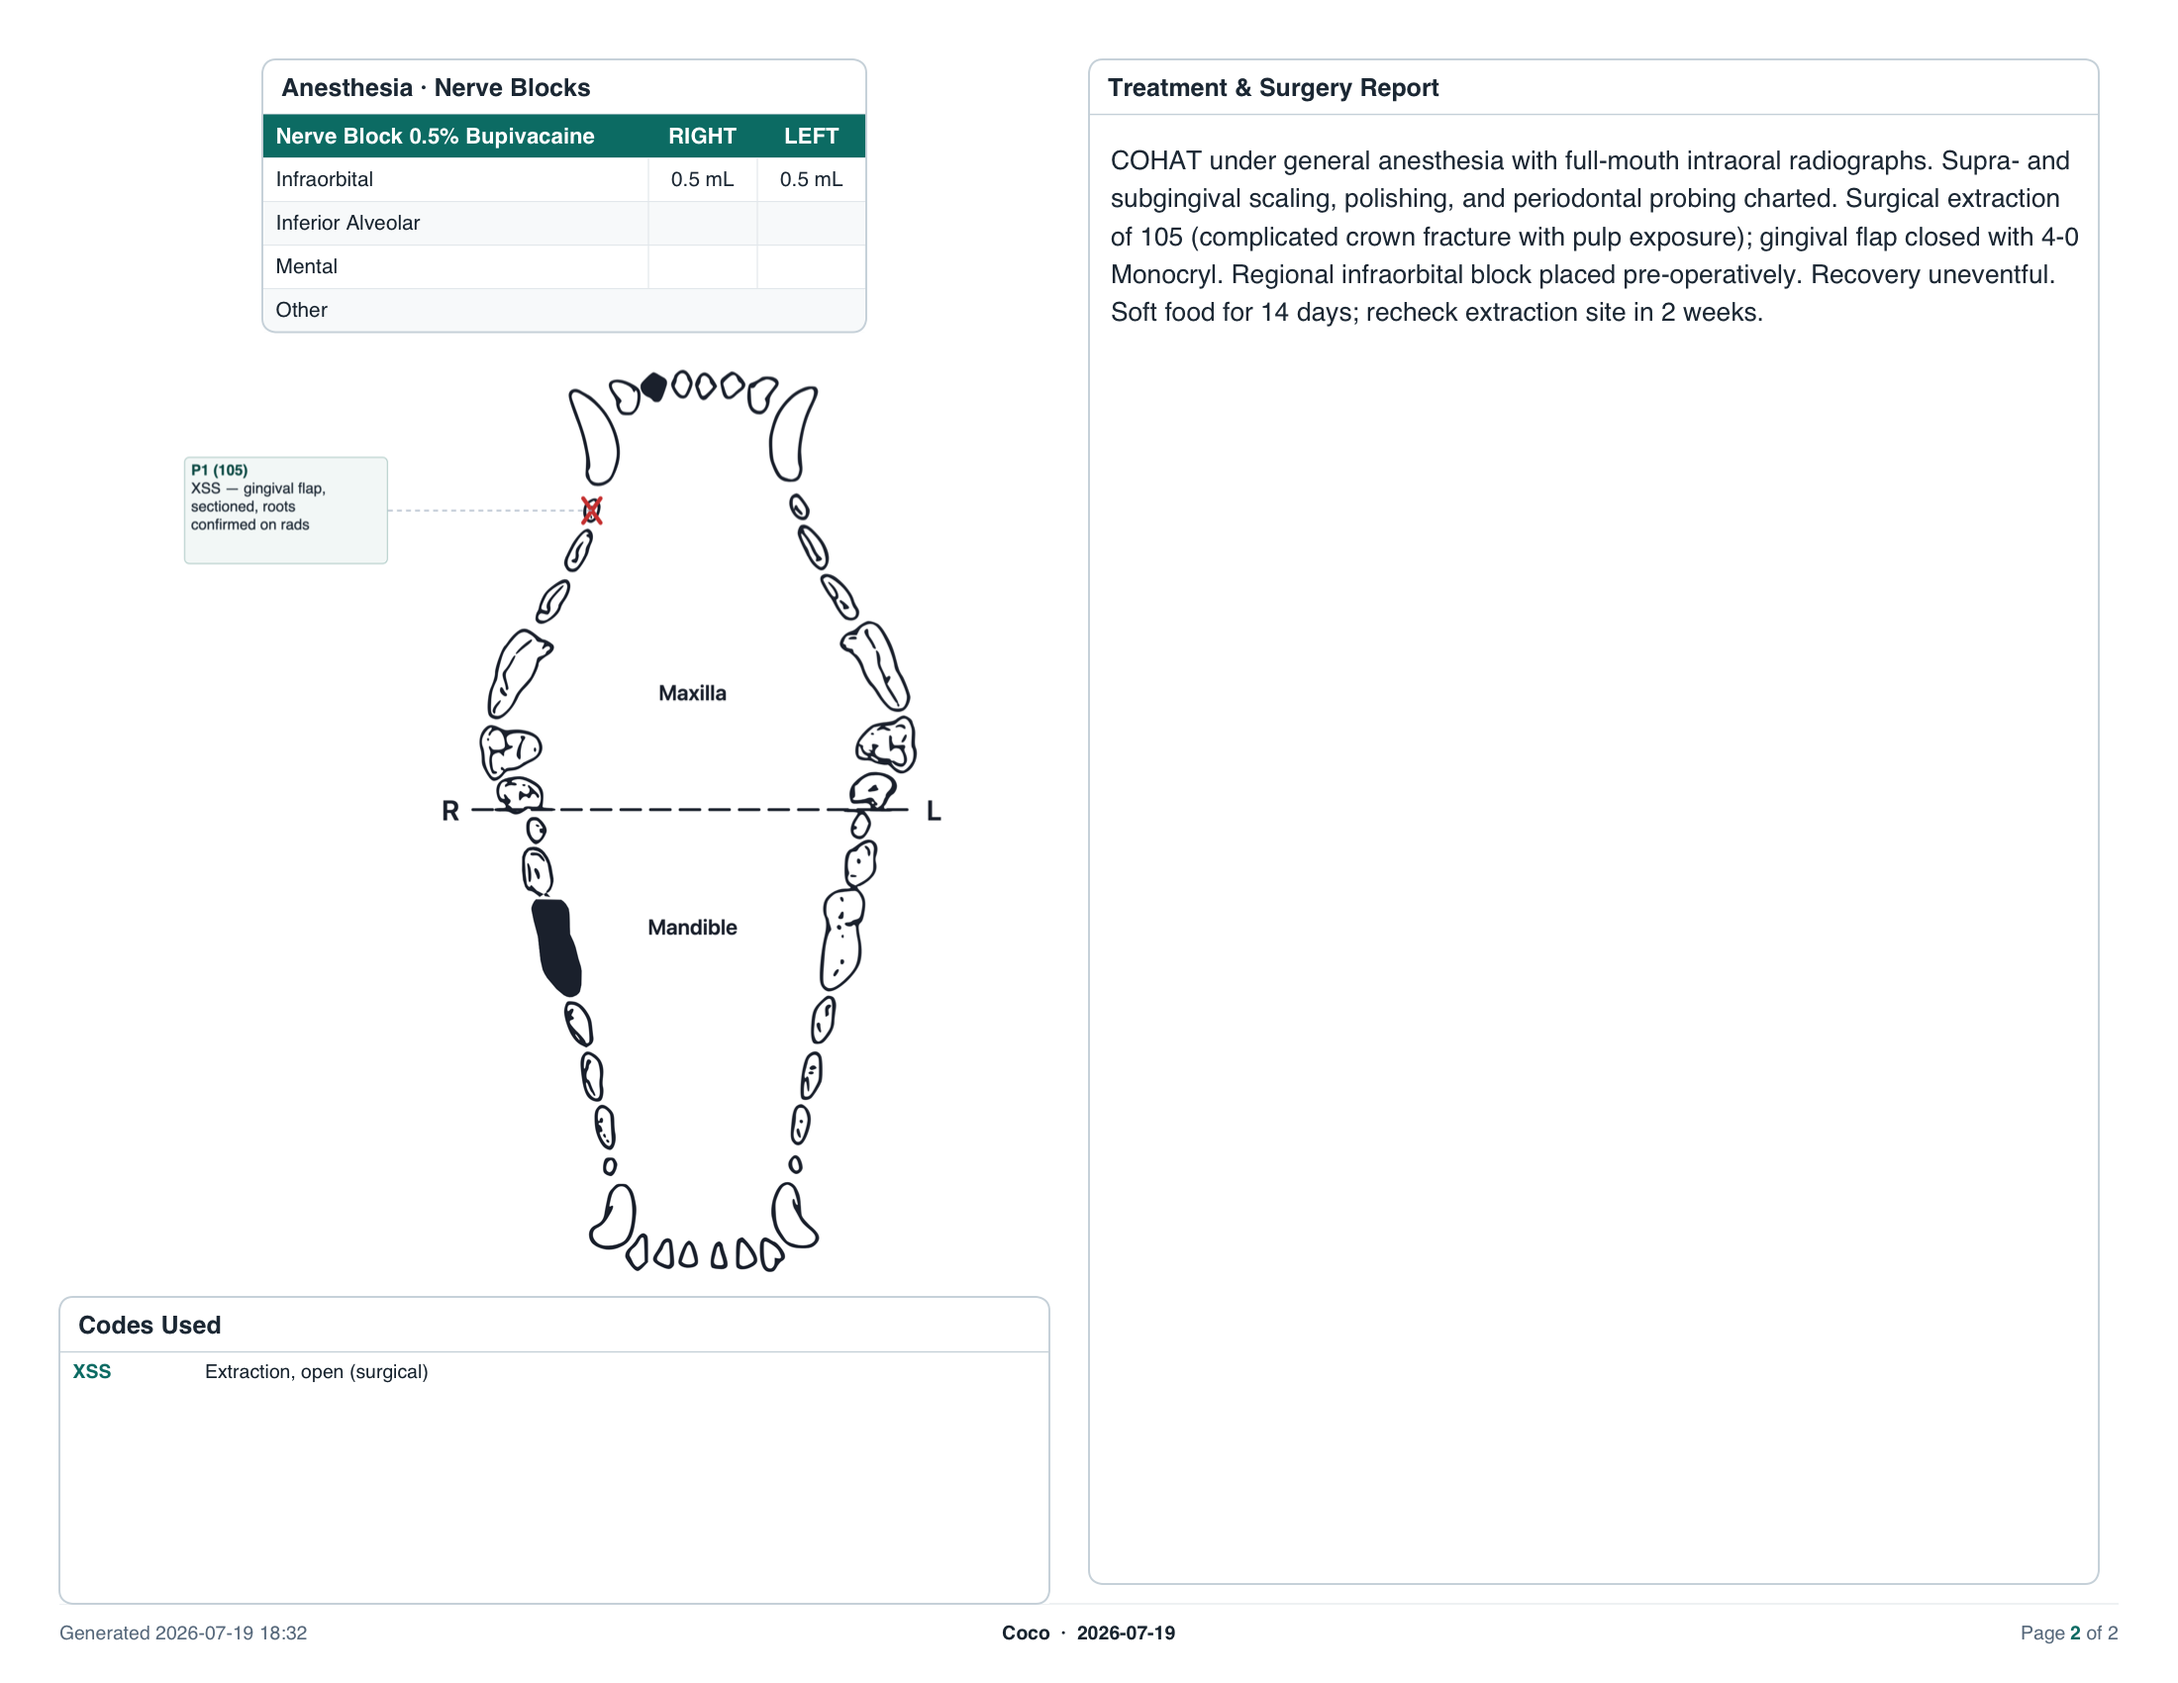
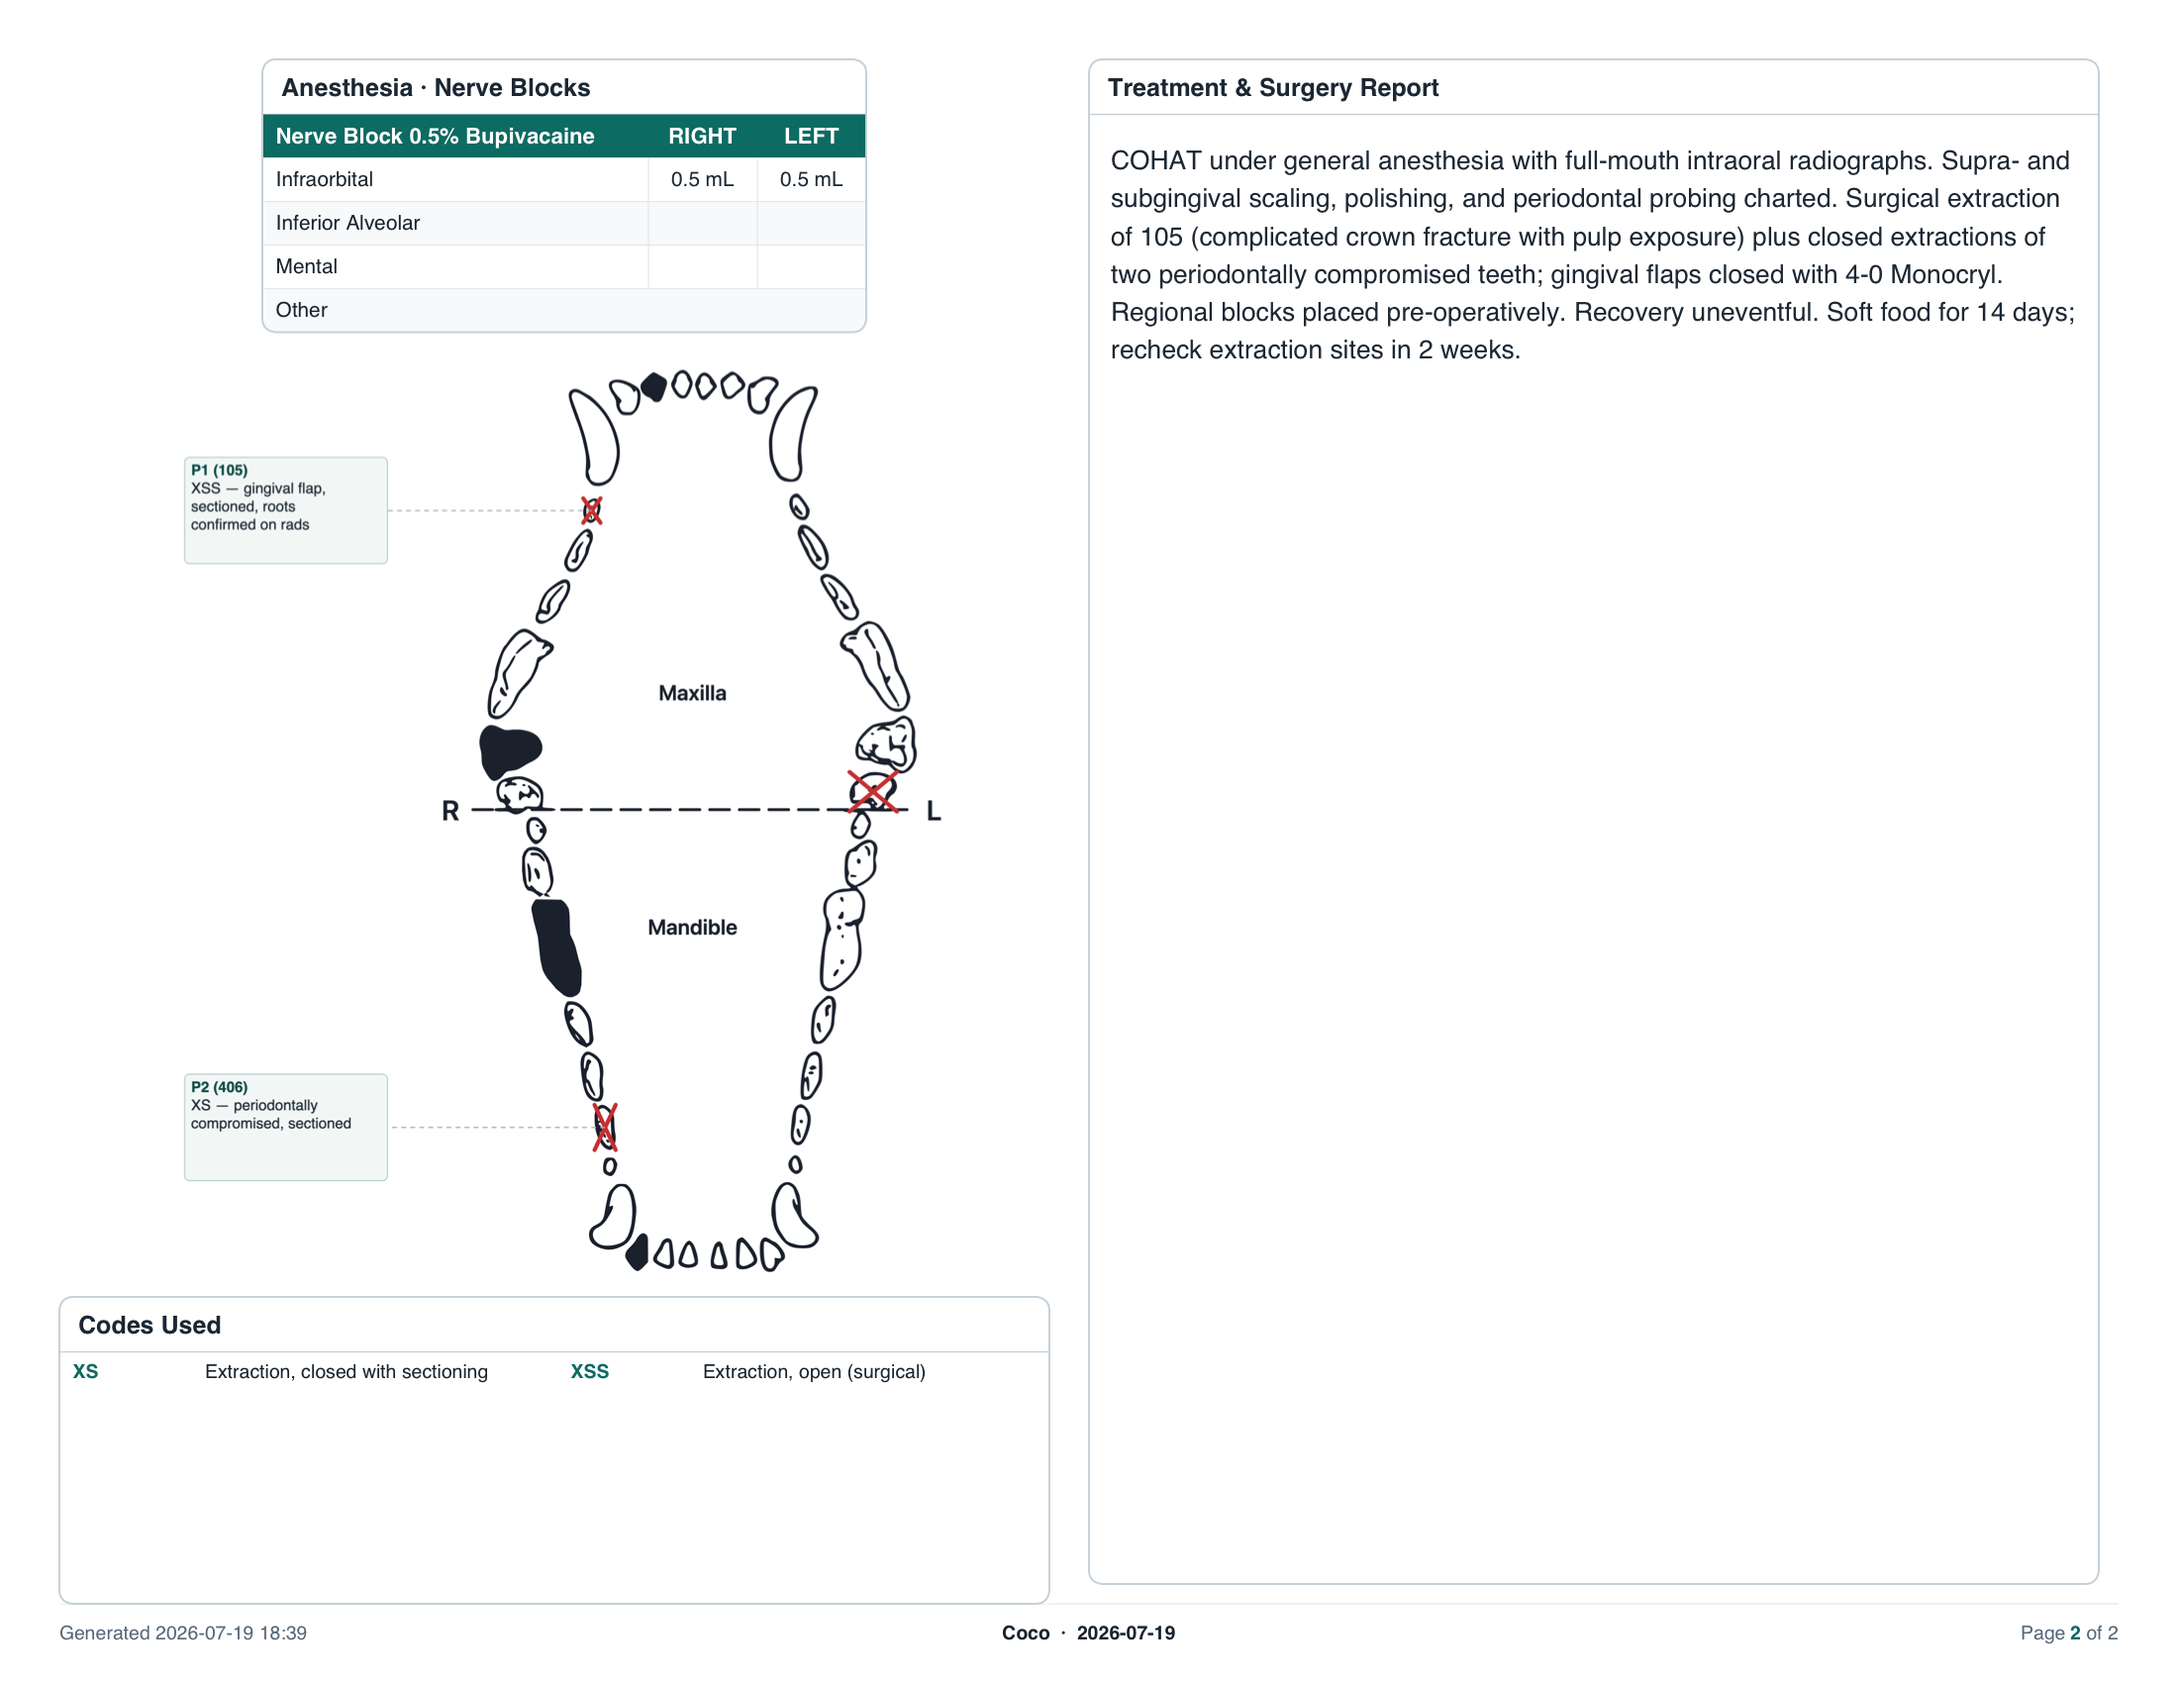
Landing paper section: page 2 under the copy, click-to-zoom lightbox, busier sample case
- Page 2 of the sample chart moves into the copy column below the text,
  filling the dead space the stacked layout left; columns top-align so
  the two sheets run together with opposing tilts.
- Both chart pages are buttons that open a full-size lightbox (zoom-in
  cursor, Escape/overlay/× to close, focus moved in, reduced-motion).
- Sample case regenerated busier: four carried-over missing teeth and
  three extractions (XSS on 105, XS on 406 with anchored comments),
  both extraction codes in page 2's legend, report updated to match.

diff --git a/src/components/Landing.tsx b/src/components/Landing.tsx
@@ -46,6 +46,18 @@ export const Landing: React.FC<LandingProps> = ({
   // on-page pause (prefers-reduced-motion alone only covers users who
   // set the OS switch).
   const [demoPaused, setDemoPaused] = React.useState(false);
+  // Full-size lightbox for the sample chart pages.
+  const [zoomedChart, setZoomedChart] = React.useState<{ src: string; alt: string } | null>(null);
+  const lightboxCloseRef = React.useRef<HTMLButtonElement>(null);
+  React.useEffect(() => {
+    if (!zoomedChart) return;
+    lightboxCloseRef.current?.focus();
+    const onKey = (e: KeyboardEvent) => {
+      if (e.key === 'Escape') setZoomedChart(null);
+    };
+    window.addEventListener('keydown', onKey);
+    return () => window.removeEventListener('keydown', onKey);
+  }, [zoomedChart]);
   const inApp = !!onOpenApp;
 
   const openSignup = (plan?: PlanKey) => {
@@ -333,18 +345,45 @@ export const Landing: React.FC<LandingProps> = ({
               <li>Patient identity on every page</li>
               <li>Re-open any PDF back into the app — the chart travels inside it</li>
             </ul>
+            {/* Page 2 sits under the copy so the section's two columns
+                fill evenly — page 1 alone runs taller than the text. */}
+            <button
+              type="button"
+              className="landing__paper-zoom"
+              onClick={() =>
+                setZoomedChart({
+                  src: '/landing-chart-p2.png',
+                  alt: 'Page two of the sample chart, full size',
+                })
+              }
+              aria-label="View page two of the sample chart full size"
+            >
+              <img
+                className="landing__paper-p2"
+                src="/landing-chart-p2.png"
+                alt="Page two of the same chart: nerve block doses, the procedure diagram with extractions marked, the treatment and surgery report, and the procedure codes used"
+                loading="lazy"
+              />
+            </button>
           </div>
-          <div className="landing__paper-shot landing__paper-shot--pages">
-            <img
-              src="/landing-chart.png"
-              alt="Page one of a generated dental chart PDF: practice logo and doctor line, diagnosis diagram with anchored comments, oral exam findings with comments, partial Triadan probing grids, and a legend of the AVDC codes used"
-              loading="lazy"
-            />
-            <img
-              src="/landing-chart-p2.png"
-              alt="Page two of the same chart: nerve block doses, the procedure diagram with an extraction marked, the treatment and surgery report, and the procedure codes used"
-              loading="lazy"
-            />
+          <div className="landing__paper-shot">
+            <button
+              type="button"
+              className="landing__paper-zoom"
+              onClick={() =>
+                setZoomedChart({
+                  src: '/landing-chart.png',
+                  alt: 'Page one of the sample chart, full size',
+                })
+              }
+              aria-label="View page one of the sample chart full size"
+            >
+              <img
+                src="/landing-chart.png"
+                alt="Page one of a generated dental chart PDF: practice logo and doctor line, diagnosis diagram with anchored comments, oral exam findings with comments, partial Triadan probing grids, and a legend of the AVDC codes used"
+                loading="lazy"
+              />
+            </button>
           </div>
         </section>
 
@@ -391,6 +430,27 @@ export const Landing: React.FC<LandingProps> = ({
             </button>
             <Login onAuthenticate={onAuthenticate} initialMode={auth} embedded initialPlan={signupPlan} />
           </div>
+        </div>
+      )}
+
+      {zoomedChart && (
+        <div
+          className="landing__lightbox"
+          onClick={() => setZoomedChart(null)}
+          role="dialog"
+          aria-modal="true"
+          aria-label={zoomedChart.alt}
+        >
+          <button
+            ref={lightboxCloseRef}
+            type="button"
+            className="landing__lightbox-close"
+            onClick={() => setZoomedChart(null)}
+            aria-label="Close full-size view"
+          >
+            ×
+          </button>
+          <img src={zoomedChart.src} alt={zoomedChart.alt} />
         </div>
       )}
     </div>

diff --git a/src/components/Landing.css b/src/components/Landing.css
@@ -967,7 +967,9 @@
   display: grid;
   grid-template-columns: minmax(0, 0.8fr) minmax(0, 1.2fr);
   gap: 3rem;
-  align-items: center;
+  /* Top-aligned: the copy column carries page 2 of the sample chart
+     below its text, so both columns run tall together. */
+  align-items: start;
 }
 
 .landing__paper-copy h2 {
@@ -1022,20 +1024,82 @@
   transform: rotate(0deg) scale(1.01);
 }
 
-/* Both pages of the sample chart, stacked with opposing tilts so they
-   read as two sheets from the same printout. */
-.landing__paper-shot--pages {
-  display: flex;
-  flex-direction: column;
-  gap: 1.5rem;
-}
-
-.landing__paper-shot--pages img + img {
+/* Page 2 of the sample chart — lives under the copy column, tilted
+   opposite to page 1 so the pair reads as two sheets of one printout. */
+.landing__paper-p2 {
+  width: 100%;
+  height: auto;
+  display: block;
+  margin-top: 2rem;
+  border: 1px solid var(--border);
+  border-radius: 10px;
+  box-shadow: 0 30px 70px rgba(23, 35, 46, 0.18);
   transform: rotate(-0.6deg);
+  transition: transform 0.25s ease;
 }
 
-.landing__paper-shot--pages img + img:hover {
+.landing__paper-p2:hover {
   transform: rotate(0deg) scale(1.01);
+}
+
+/* Bare-button wrapper so a chart page is clickable without changing its
+   card look; the zoom affordance is the cursor + focus ring. */
+.landing__paper-zoom {
+  display: block;
+  width: 100%;
+  padding: 0;
+  border: none;
+  background: none;
+  cursor: zoom-in;
+}
+
+/* Full-size view of a chart page. */
+.landing__lightbox {
+  position: fixed;
+  inset: 0;
+  z-index: 95;
+  display: flex;
+  align-items: center;
+  justify-content: center;
+  padding: 1.5rem;
+  background: rgba(15, 23, 42, 0.75);
+  cursor: zoom-out;
+  animation: feature-fade 0.15s ease;
+}
+
+.landing__lightbox img {
+  max-width: min(1200px, 96vw);
+  max-height: 92vh;
+  width: auto;
+  height: auto;
+  border-radius: 8px;
+  box-shadow: 0 40px 120px rgba(0, 0, 0, 0.5);
+  background: #fff;
+}
+
+.landing__lightbox-close {
+  position: absolute;
+  top: 1rem;
+  right: 1.25rem;
+  width: 44px;
+  height: 44px;
+  border: none;
+  border-radius: 999px;
+  background: rgba(255, 255, 255, 0.15);
+  color: #fff;
+  font-size: 1.6rem;
+  line-height: 1;
+  cursor: pointer;
+}
+
+.landing__lightbox-close:hover {
+  background: rgba(255, 255, 255, 0.3);
+}
+
+@media (prefers-reduced-motion: reduce) {
+  .landing__lightbox {
+    animation: none;
+  }
 }
 
 @media (max-width: 900px) {
